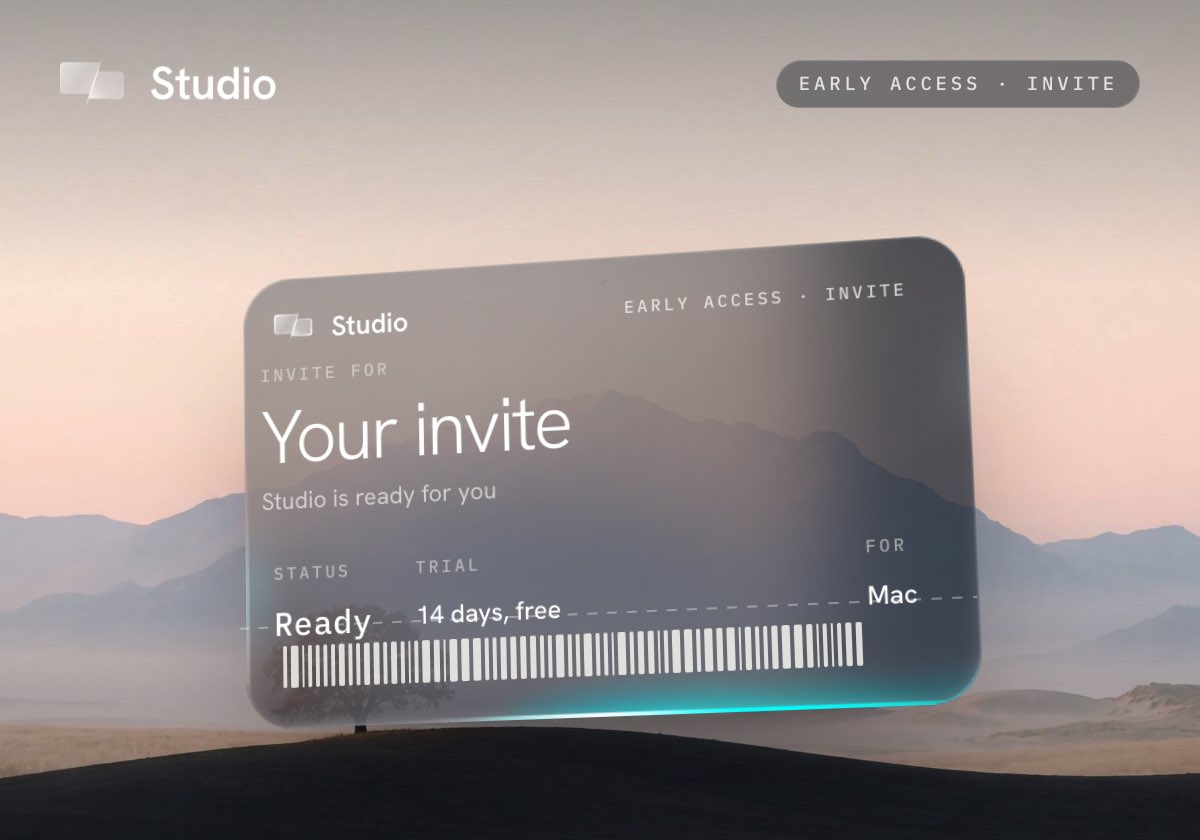
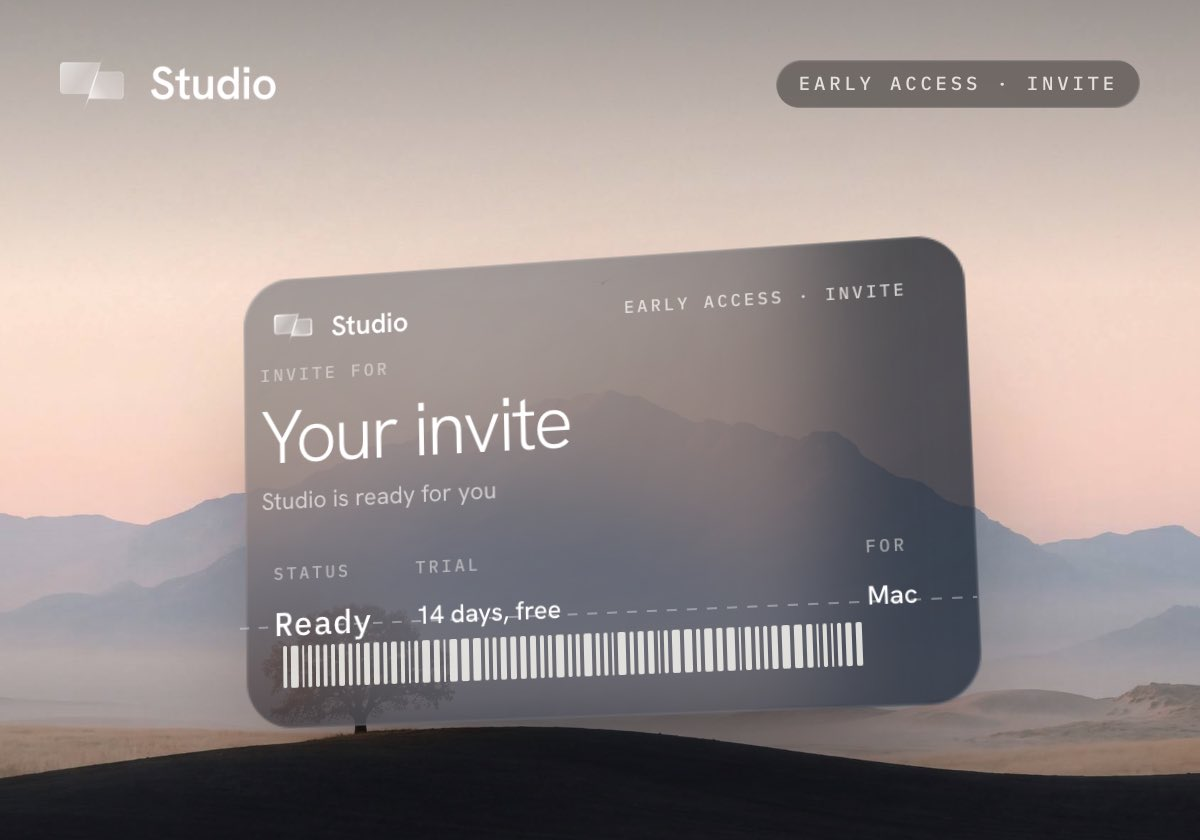
Emails v3: black, no borders, no glow; Outlook-safe button; You're in as a plain Gmail note; invite in Evan's voice
- Pure black page, neutral greys only. No panel, pill or card borders, no inset rims, no beam glow under the button.
- The sand button is bulletproof: a padded link on a coloured cell, and a VML pill for Outlook on Windows.
- The code sits in a plain dark well; Trial / For are two plain columns.
- Heroes re-rendered without the cyan pass beam, on a neutral tint.
- You're in: Gmail's own markup in Arial (never a serif), links written the way a person types them, signed Evan.
- Invite: "{first}, your Studio invite is here", "Sam, you're in.", in Evan's voice. inviteText(): the invite-ready SMS with their first name.

Changed region(s): [[0.3392, 0.8048, 0.8325, 0.8667], [0.185, 0.65, 0.2158, 0.8048]]

diff --git a/worker/src/emails.js b/worker/src/emails.js
@@ -2,54 +2,66 @@
 //
 //   confirmEmail   "Confirm your spot"       designed: the 6-digit code and the one-tap button (sent by the Worker on sign-up)
 //   youreInEmail   "You're in, {first}"      NOT designed: a plain note from Evan, Gmail-native, replies go to hello@
-//   inviteEmail    "Your Studio invite is here"   designed: the access link and 14 days free (held for launch)
+//   inviteEmail    "{first}, your Studio invite is here"   designed: the access link and 14 days free, in Evan's voice (held for launch)
+//   inviteText     the invite-ready SMS (not an email): Evan's voice, their first name
 //   welcomeEmail   "Welcome to Studio"       designed: the download, right after an app sign-up
 //
-// Built for every inbox: tables and inline CSS, solid colours behind every translucent one, dark by design and the same in light
-// and dark mode, readable with images off (each hero sits on a colour, with alt text), no scripts, no tracking of our own, one link
+// Built for every inbox: tables and inline CSS, solid colours only (no borders, no glows), black by design, a VML button for
+// Outlook, readable with images off (each hero sits on a colour, with alt text), no scripts, no tracking of our own, one link
 // to askstudio.ai, a plain-text part, well under Gmail's 102 KB clip. Images live on askstudio.ai/assets/email/.
 
 const SITE = "https://askstudio.ai";
 const FONT = "'Hanken Grotesk','Helvetica Neue',Helvetica,Arial,sans-serif";
 const MONO = "'Studio Mono','IBM Plex Mono','SF Mono',ui-monospace,Menlo,Consolas,monospace";
-const C = { night: "#0B0F14", panel: "#171c24", top: "#1b2029", bot: "#14181f", rim: "#2b313b", ink: "#FFFFFF", body: "#d9dcdf", soft: "#b3b7bc", dim: "#868a90", sand: "#f5f3ee", jet: "#0B0F14", pill: "#222833", pillrim: "#3a414c" };
+// Black, like Studio in dark mode. Neutral greys only: no blue, no teal, no borders, no glow.
+const C = { night: "#000000", ink: "#FFFFFF", body: "#d4d4d4", soft: "#9a9a9a", dim: "#6f6f6f", sand: "#f5f3ee", jet: "#000000", well: "#161616" };
 
 const esc = (v) => String(v == null ? "" : v).replace(/[&<>"']/g, (c) => ({ "&": "&amp;", "<": "&lt;", ">": "&gt;", '"': "&quot;", "'": "&#39;" }[c]));
 const one = (v, max = 80) => String(v == null ? "" : v).replace(/[\u0000-\u001f\u007f]/g, " ").replace(/\s+/g, " ").trim().slice(0, max);
+// a link as a person would type it: no https://, no #section
+const shown = (u) => String(u).replace(/^https?:\/\//, "").replace(/#.*$/, "").replace(/\/$/, "");
 
-// The designed frame, in the waitlist's look: the scene (one hosted image of the real glass on a Studio wallpaper, rendered at 2x
-// from the site's own components, with alt text that carries the message), then live text on a deep glass panel, then the footer.
-function designed({ title, preheader, hero, heroAlt, kicker, headline, intro, middle = "", button, fine, footer = "", site = SITE }) {
-  const btn = button ? `
-<table role="presentation" cellpadding="0" cellspacing="0" border="0" align="center" style="margin:6px auto 0;"><tr><td align="center" bgcolor="${C.sand}" style="border-radius:999px;background:${C.sand};">
-<a href="${esc(button.href)}" style="display:inline-block;padding:17px 34px;font-family:${FONT};font-size:16px;line-height:20px;font-weight:600;letter-spacing:-0.1px;color:${C.jet};text-decoration:none;border-radius:999px;">${esc(button.label)}&nbsp;&nbsp;&rarr;</a>
-</td></tr></table>
-<table role="presentation" width="300" cellpadding="0" cellspacing="0" border="0" align="center" style="margin:0 auto;width:300px;"><tr><td width="300" height="21" background="${esc(site + "/assets/email/beam-glow.png")}" style="width:300px;height:21px;line-height:21px;font-size:0;background-image:url('${esc(site + "/assets/email/beam-glow.png")}');background-repeat:no-repeat;background-size:300px 21px;background-position:center top;">&nbsp;</td></tr></table>` : "";
-  return `<!doctype html><html lang="en"><head><meta charset="utf-8"><meta name="viewport" content="width=device-width,initial-scale=1">
+// The sand button, bulletproof: a padded link on a coloured cell for every client, and a VML pill for Outlook on Windows.
+function button({ label, href }) {
+  const w = Math.max(200, Math.round(label.length * 9.4 + 84));
+  return `<table role="presentation" cellpadding="0" cellspacing="0" border="0" style="margin:0;"><tr><td align="center" bgcolor="${C.sand}" style="border-radius:999px;background:${C.sand};">
+<!--[if mso]><v:roundrect xmlns:v="urn:schemas-microsoft-com:vml" xmlns:w="urn:schemas-microsoft-com:office:word" href="${esc(href)}" style="height:52px;v-text-anchor:middle;width:${w}px;" arcsize="50%" stroke="f" fillcolor="${C.sand}"><w:anchorlock/><center style="color:${C.jet};font-family:Arial,sans-serif;font-size:16px;font-weight:bold;">${esc(label)} &rarr;</center></v:roundrect><![endif]-->
+<!--[if !mso]><!--><a href="${esc(href)}" style="display:inline-block;padding:16px 30px;font-family:${FONT};font-size:16px;line-height:20px;font-weight:600;color:${C.jet};text-decoration:none;border-radius:999px;mso-hide:all;">${esc(label)}&nbsp;&nbsp;&rarr;</a><!--<![endif]-->
+</td></tr></table>`;
+}
+const label = (t, extra = "") => `<div style="font-family:${MONO};font-size:10.5px;line-height:14px;font-weight:500;letter-spacing:2.6px;text-transform:uppercase;color:${C.soft};${extra}">${esc(t)}</div>`;
+
+// The designed frame: the scene (one hosted image of the real pass or the real Studio Home on a Studio wallpaper, rendered at 2x,
+// with alt text that carries the message), then live text straight on black, then a quiet footer. Solid colours only, so a client
+// that inverts colours (Gmail on iPhone) turns it into a clean light email instead of breaking it.
+function designed({ title, preheader, hero, heroAlt, kicker, headline, intro, middle = "", button: b, fine, footer = "", site = SITE }) {
+  return `<!doctype html><html lang="en" xmlns:v="urn:schemas-microsoft-com:vml" xmlns:o="urn:schemas-microsoft-com:office:office"><head><meta charset="utf-8"><meta name="viewport" content="width=device-width,initial-scale=1">
 <meta name="x-apple-disable-message-reformatting"><meta name="color-scheme" content="dark"><meta name="supported-color-schemes" content="dark"><title>${esc(title)}</title>
 <link href="https://fonts.googleapis.com/css2?family=Hanken+Grotesk:wght@300;400;600&display=swap" rel="stylesheet">
 <style>@font-face{font-family:'Studio Mono';font-weight:500;src:url(${site}/assets/fonts/IBMPlexMono-Medium.woff) format('woff')}@font-face{font-family:'Studio Mono';font-weight:400;src:url(${site}/assets/fonts/IBMPlexMono-Regular.woff) format('woff')}
 :root{color-scheme:dark;supported-color-schemes:dark}body{margin:0;padding:0;background:${C.night}}a{color:${C.ink}}
-@media (max-width:480px){.px{padding-left:26px!important;padding-right:26px!important;padding-top:32px!important}.h1{font-size:33px!important;line-height:37px!important}.code{font-size:28px!important;letter-spacing:6px!important;padding:16px 16px 16px 22px!important}}</style></head>
+@media (max-width:480px){.px{padding-left:22px!important;padding-right:22px!important}.h1{font-size:32px!important;line-height:36px!important}.code{font-size:28px!important;letter-spacing:6px!important}.ft{letter-spacing:1.2px!important;font-size:9.5px!important}}</style>
+<!--[if mso]><style>body,table,td,a,h1,p,div{font-family:Arial,sans-serif!important}</style><![endif]--></head>
 <body bgcolor="${C.night}" style="margin:0;padding:0;background:${C.night};">
-<div style="display:none;max-height:0;overflow:hidden;opacity:0;color:${C.night};">${esc(preheader)}&#8199;&#847;&#8199;&#847;&#8199;&#847;&#8199;&#847;&#8199;&#847;&#8199;&#847;</div>
+<div style="display:none;max-height:0;overflow:hidden;opacity:0;color:${C.night};mso-hide:all;">${esc(preheader)}&#8199;&#847;&#8199;&#847;&#8199;&#847;&#8199;&#847;&#8199;&#847;&#8199;&#847;</div>
 <table role="presentation" width="100%" cellpadding="0" cellspacing="0" border="0" bgcolor="${C.night}" style="background:${C.night};">
-<tr><td align="center" style="padding:28px 12px 36px;">
+<tr><td align="center" style="padding:24px 12px 40px;">
+<!--[if mso]><table role="presentation" width="600" cellpadding="0" cellspacing="0" border="0"><tr><td><![endif]-->
 <table role="presentation" width="100%" cellpadding="0" cellspacing="0" border="0" style="max-width:600px;">
-<tr><td bgcolor="#1b2029" style="background:#1b2029;border-radius:24px;overflow:hidden;line-height:0;font-size:0;">
-<img src="${esc(site + "/assets/email/" + hero)}" width="600" height="420" alt="${esc(heroAlt)}" style="display:block;width:100%;max-width:600px;height:auto;border:0;border-radius:24px;font-family:${FONT};font-size:18px;line-height:26px;color:${C.ink};"></td></tr>
-<tr><td height="12" style="height:12px;line-height:12px;font-size:12px;">&nbsp;</td></tr>
-<tr><td bgcolor="${C.panel}" style="background:${C.panel};background-image:linear-gradient(180deg,${C.top},${C.bot});border:1px solid ${C.rim};border-radius:24px;box-shadow:inset 1px 1px 1px -1px rgba(255,255,255,.6),inset -1px -1px 1px -1px rgba(255,255,255,.5);">
-<table role="presentation" width="100%" cellpadding="0" cellspacing="0" border="0"><tr><td class="px" style="padding:40px 46px 38px;font-family:${FONT};color:${C.body};">
-${kicker ? `<div style="font-family:${MONO};font-size:11px;line-height:14px;font-weight:500;letter-spacing:3px;text-transform:uppercase;color:${C.soft};margin:0 0 16px;">${esc(kicker)}</div>` : ""}
-<h1 class="h1" style="margin:0 0 14px;font-family:${FONT};font-size:40px;line-height:44px;font-weight:300;letter-spacing:-1.2px;color:${C.ink};">${headline}</h1>
-<p style="margin:0 0 30px;font-size:16px;line-height:26px;color:${C.body};">${intro}</p>
-${middle}${btn}
-${fine ? `<p style="margin:24px 0 0;font-size:13px;line-height:20px;color:${C.dim};">${fine}</p>` : ""}
-</td></tr></table></td></tr>
-<tr><td align="center" style="padding:30px 12px 0;"><img src="${esc(site + "/assets/email/studio-lockup.png")}" width="92" height="26" alt="Studio" style="display:block;margin:0 auto 14px;width:92px;height:26px;border:0;font-family:${FONT};font-size:16px;font-weight:600;color:${C.ink};">
-<div style="font-family:${MONO};font-size:10px;line-height:17px;letter-spacing:2.4px;text-transform:uppercase;color:${C.dim};"><a href="${SITE}" style="color:${C.dim};text-decoration:none;">askstudio.ai</a> &middot; Nicolini Productions LLC${footer}</div></td></tr>
-</table></td></tr></table></body></html>`;
+<tr><td bgcolor="${C.night}" style="background:${C.night};border-radius:22px;overflow:hidden;line-height:0;font-size:0;">
+<img src="${esc(site + "/assets/email/" + hero)}" width="600" height="420" alt="${esc(heroAlt)}" style="display:block;width:100%;max-width:600px;height:auto;border:0;border-radius:22px;font-family:${FONT};font-size:18px;line-height:26px;color:${C.ink};"></td></tr>
+<tr><td class="px" style="padding:40px 36px 8px;font-family:${FONT};color:${C.body};">
+${kicker ? label(kicker, "margin:0 0 18px;") : ""}
+<h1 class="h1" style="margin:0 0 16px;font-family:${FONT};font-size:40px;line-height:44px;font-weight:300;letter-spacing:-1.2px;color:${C.ink};">${headline}</h1>
+<p style="margin:0 0 32px;font-size:17px;line-height:27px;color:${C.body};">${intro}</p>
+${middle}${b ? button(b) : ""}
+${fine ? `<p style="margin:32px 0 0;font-size:13.5px;line-height:21px;color:${C.soft};">${fine}</p>` : ""}
+</td></tr>
+<tr><td class="px" style="padding:48px 36px 0;"><img src="${esc(site + "/assets/email/studio-lockup.png")}" width="84" height="24" alt="Studio" style="display:block;margin:0 0 14px;width:84px;height:24px;border:0;font-family:${FONT};font-size:16px;font-weight:600;color:${C.ink};">
+<div class="ft" style="font-family:${MONO};font-size:10px;line-height:17px;letter-spacing:2.2px;text-transform:uppercase;color:${C.dim};"><a href="${SITE}" style="color:${C.dim};text-decoration:none;">askstudio.ai</a> &middot; Nicolini Productions LLC${footer}</div></td></tr>
+</table>
+<!--[if mso]></td></tr></table><![endif]-->
+</td></tr></table></body></html>`;
 }
 
 // 1. Confirm your spot: the code, big, and the one-tap button.
@@ -59,56 +71,67 @@ export function confirmEmail(first, code, link) {
   const subject = "Confirm your spot";
   const text = [hi, "", "Your Studio code is " + spaced + ".", "", "Enter it on the page, or confirm here:", link, "",
     "The code works for 10 minutes and the link for 24 hours. Didn't sign up? Ignore this and nothing happens.", "", "Studio", "askstudio.ai"].join("\n");
-  const middle = `<div style="font-family:${MONO};font-size:10px;line-height:14px;font-weight:500;letter-spacing:2.6px;text-transform:uppercase;color:${C.dim};text-align:center;margin:0 0 10px;">Your code</div>
-<table role="presentation" cellpadding="0" cellspacing="0" border="0" align="center" style="margin:0 auto 30px;"><tr>
-<td class="code" align="center" bgcolor="${C.pill}" style="background:${C.pill};background-image:linear-gradient(180deg,#2a313c,#1f252e);border:1px solid ${C.pillrim};border-radius:999px;padding:18px 22px 18px 32px;font-family:${MONO};font-size:34px;line-height:38px;font-weight:500;letter-spacing:10px;color:${C.ink};box-shadow:inset 1px 1px 1px -1px rgba(255,255,255,.6),inset -1px -1px 1px -1px rgba(255,255,255,.5);">${spaced}</td></tr></table>`;
+  const middle = label("Your code", "margin:0 0 12px;") + `
+<table role="presentation" cellpadding="0" cellspacing="0" border="0" style="margin:0 0 32px;"><tr>
+<td class="code" bgcolor="${C.well}" style="background:${C.well};border-radius:16px;padding:18px 26px 18px 30px;font-family:${MONO};font-size:34px;line-height:38px;font-weight:500;letter-spacing:10px;color:${C.ink};">${spaced}</td></tr></table>`;
   const html = designed({
     title: subject, preheader: "Your code is " + spaced + ". It works for 10 minutes.", hero: "hero-confirm.jpg", heroAlt: "Studio. Confirm your spot: your code is " + spaced + ".",
-    kicker: "Early access · Confirm", headline: "Confirm your spot.", intro: esc(hi) + " here's your code. Enter it on the page, or tap the button, to hold your place in line.",
+    kicker: "Early access", headline: "Confirm your spot.", intro: esc(hi) + " here's your code. Enter it on the page, or tap the button, to hold your place in line.",
     middle, button: { label: "Confirm my spot", href: link },
     fine: "The code works for 10 minutes and the button for 24 hours. Didn't sign up? Ignore this email and nothing happens.",
   });
   return { subject, html, text };
 }
 
-// 2. You're in: a plain note from Evan. No design, no images, no tracking; it should look like he typed it.
+// 2. You're in: a plain note from Evan that looks like he wrote it in Gmail. No design, no images, no tracking, links written
+// the way a person types them. Gmail's own markup (dir="ltr" divs) in Gmail's font, so no client falls back to a serif.
 export function youreInEmail(first, place, refLink, passLink) {
   const name = one(first) || "there";
   const subject = "You're in, " + name;
-  const lines = [
-    `Hey ${name}, it's Evan from Studio.`,
-    `You're #${Number(place).toLocaleString("en-US")} on the list. Quick favour: reply 'yes' so I know this landed (it also keeps us out of your spam).`,
-    `Your link to move up: ${refLink}`,
-  ];
-  if (passLink) lines.push(`Your pass, to see friends join (just for you): ${passLink}`);
+  const n = Number(place).toLocaleString("en-US");
+  const text = [`Hey ${name}, it's Evan from Studio.`,
+    `You're #${n} on the list. Quick favour: reply "yes" so I know this landed (it also keeps us out of your spam).`,
+    `Want to move up? Send a friend your link: ${refLink}`,
+    ...(passLink ? [`You can watch them join on your pass: ${passLink}`] : []), "Evan"].join("\n\n");
+  const a = (href, t) => `<a href="${esc(href)}">${esc(t)}</a>`;
   const html = `<!doctype html><html><head><meta charset="utf-8"></head><body>` +
-    `<div>${esc(lines[0])}</div><div><br></div><div>${esc(lines[1])}</div><div><br></div><div>Your link to move up: <a href="${esc(refLink)}">${esc(refLink)}</a></div>` +
-    (passLink ? `<div><br></div><div>Your pass, to see friends join (just for you): <a href="${esc(passLink)}">${esc(passLink)}</a></div>` : "") +
-    `</body></html>`;
-  return { subject, html, text: lines.join("\n\n"), sender: { name: "Evan from Studio", email: "hello@askstudio.ai" }, replyTo: { name: "Evan from Studio", email: "hello@askstudio.ai" } };
+    `<div dir="ltr" style="font-family:Arial,Helvetica,sans-serif;font-size:14px;line-height:1.5;">` +
+    `<div>Hey ${esc(name)}, it's Evan from Studio.</div><div><br></div>` +
+    `<div>You're #${n} on the list. Quick favour: reply "yes" so I know this landed (it also keeps us out of your spam).</div><div><br></div>` +
+    `<div>Want to move up? Send a friend your link: ${a(refLink, shown(refLink))}</div>` +
+    (passLink ? `<div><br></div><div>You can watch them join on ${a(passLink, "your pass")}.</div>` : "") +
+    `<div><br></div><div>Evan</div></div></body></html>`;
+  return { subject, html, text, sender: { name: "Evan from Studio", email: "hello@askstudio.ai" }, replyTo: { name: "Evan from Studio", email: "hello@askstudio.ai" } };
 }
 
-// 3. Your invite is here (held for launch): the access link, and 14 days free.
+// 3. Your invite is here (held for launch): the access link, and 14 days free, in Evan's voice.
 // It goes to the waitlist (a list), so its footer carries the unsubscribe link and the company's postal address (CAN-SPAM).
 // unsubscribe defaults to Brevo's own tag; address is the company's mailing address (Evan, 2026-11-20).
 export function inviteEmail(first, accessLink, { unsubscribe = "{{ unsubscribe }}", address = "4328 Del Mar Ave, San Diego, CA 92107" } = {}) {
-  const name = one(first), subject = "Your Studio invite is here";
-  const text = [(name ? name + ", your" : "Your") + " invite to Studio is here.", "", "Your 14 days of everything, free, start when you open it.", "",
-    "Open your invite:", accessLink, "", "This link is just for you.", "", "Studio", "askstudio.ai", "Nicolini Productions LLC · " + address, "",
-    "You're getting this because you joined the Studio waitlist. Unsubscribe: " + unsubscribe].join("\n");
-  const pass = `<table role="presentation" width="100%" cellpadding="0" cellspacing="0" border="0" style="margin:0 0 30px;"><tr>
-<td width="50%" style="padding:16px 18px;border:1px solid ${C.rim};border-radius:16px 0 0 16px;background:#1a1f27;box-shadow:inset 1px 1px 1px -1px rgba(255,255,255,.6),inset -1px -1px 1px -1px rgba(255,255,255,.5);"><div style="font-family:${MONO};font-size:10px;line-height:14px;font-weight:500;letter-spacing:2.4px;text-transform:uppercase;color:${C.dim};">Trial</div><div style="margin-top:6px;font-family:${FONT};font-size:17px;line-height:22px;color:${C.ink};">14 days, free</div></td>
-<td width="50%" style="padding:16px 18px;border:1px solid ${C.rim};border-left:0;border-radius:0 16px 16px 0;background:#1a1f27;box-shadow:inset 1px 1px 1px -1px rgba(255,255,255,.6),inset -1px -1px 1px -1px rgba(255,255,255,.5);"><div style="font-family:${MONO};font-size:10px;line-height:14px;font-weight:500;letter-spacing:2.4px;text-transform:uppercase;color:${C.dim};">For</div><div style="margin-top:6px;font-family:${FONT};font-size:17px;line-height:22px;color:${C.ink};">Your Mac</div></td>
+  const name = one(first), subject = name ? name + ", your Studio invite is here" : "Your Studio invite is here";
+  const text = [(name ? `Hey ${name}, it's Evan.` : "Hey, it's Evan."), "", "Your spot came up, so Studio's all yours: 14 days of everything, free.", "",
+    "Open your invite on your Mac:", accessLink, "", "This link is just for you. Questions? Just reply, it comes straight to me.", "",
+    "Studio", "askstudio.ai", "Nicolini Productions LLC · " + address, "", "You're getting this because you joined the Studio waitlist. Unsubscribe: " + unsubscribe].join("\n");
+  const cols = `<table role="presentation" cellpadding="0" cellspacing="0" border="0" style="margin:0 0 34px;"><tr>
+<td valign="top" style="padding:0 44px 0 0;">${label("Trial")}<div style="margin-top:7px;font-family:${FONT};font-size:18px;line-height:23px;color:${C.ink};">14 days, free</div></td>
+<td valign="top">${label("For")}<div style="margin-top:7px;font-family:${FONT};font-size:18px;line-height:23px;color:${C.ink};">Your Mac</div></td>
 </tr></table>`;
   const html = designed({
-    title: subject, preheader: "Studio is ready for you. 14 days of everything, free.", hero: "hero-invite.jpg", heroAlt: "Studio. Your invite is here: 14 days of everything, free.",
-    kicker: "Your invite", headline: name ? esc(name) + ", Studio is ready." : "Studio is ready.",
-    intro: "Your invite is here. Open it to start your 14 days of everything, free. One prompt, and the idea in your head becomes a finished video.",
-    middle: pass, button: { label: "Open my invite", href: accessLink },
-    fine: "This link is just for you. Questions? Reply to this email.",
+    title: subject, preheader: "It's Evan. Your spot came up: 14 days of Studio, free.", hero: "hero-invite.jpg", heroAlt: "Studio. Your invite is here: 14 days of everything, free.",
+    kicker: "Your invite", headline: name ? esc(name) + ", you're in." : "You're in.",
+    intro: "It's Evan. Your spot came up, so Studio's all yours: 14 days of everything, free. Open it on your Mac, tell it what you want to make, and watch it come together.",
+    middle: cols, button: { label: "Open my invite", href: accessLink },
+    fine: "This link is just for you. Questions? Just reply, it comes straight to me.",
     footer: `<br>${esc(address)}<br><br>You joined the Studio waitlist &middot; <a href="${esc(unsubscribe)}" style="color:${C.dim};text-decoration:underline;">Unsubscribe</a>`,
   });
   return { subject, html, text };
+}
+
+// The invite-ready text (Brevo SMS, toll-free; only to people who ticked "text me when my invite is ready"). Evan's voice, their
+// first name, the brand first and the opt-out last, as the carrier needs.
+export function inviteText(first, link = "askstudio.ai/start") {
+  const name = one(first, 40);
+  return `Studio: Hey${name ? " " + name : ""}, it's Evan. Your Studio invite is ready! Open it on your Mac: ${shown(link)} Reply STOP to opt out.`;
 }
 
 // 4. Welcome to Studio: the download, right after an app sign-up.
@@ -117,9 +140,9 @@ export function welcomeEmail(first, downloadLink) {
   const steps = ["Open Studio and sign in with this email.", "Tell it what you want to make.", "Watch your first video come together."];
   const text = [(name ? "Welcome to Studio, " + name + "." : "Welcome to Studio."), "", "Your download:", downloadLink, "", ...steps.map((s, i) => (i + 1) + ". " + s), "",
     "Make your first video before you pay anything.", "", "Studio", "askstudio.ai"].join("\n");
-  const list = `<table role="presentation" width="100%" cellpadding="0" cellspacing="0" border="0" style="margin:0 0 30px;">` +
-    steps.map((s, i) => `<tr><td width="40" valign="top" style="padding:12px 0;border-top:1px solid ${C.rim};font-family:${MONO};font-size:11px;line-height:24px;font-weight:500;letter-spacing:2px;color:${C.soft};">0${i + 1}</td>
-<td valign="top" style="padding:12px 0;border-top:1px solid ${C.rim};font-family:${FONT};font-size:16px;line-height:24px;color:${C.body};">${esc(s)}</td></tr>`).join("") + `</table>`;
+  const list = `<table role="presentation" width="100%" cellpadding="0" cellspacing="0" border="0" style="margin:0 0 34px;">` +
+    steps.map((s, i) => `<tr><td width="40" valign="top" style="padding:0 0 14px;font-family:${MONO};font-size:11px;line-height:25px;font-weight:500;letter-spacing:2px;color:${C.soft};">0${i + 1}</td>
+<td valign="top" style="padding:0 0 14px;font-family:${FONT};font-size:17px;line-height:25px;color:${C.body};">${esc(s)}</td></tr>`).join("") + `</table>`;
   const html = designed({
     title: subject, preheader: "Your download is ready. Make your first video before you pay.", hero: "hero-welcome.jpg", heroAlt: "Studio, on your Mac. Welcome to Studio.",
     kicker: "Welcome", headline: name ? "Welcome to Studio, " + esc(name) + "." : "Welcome to Studio.",
